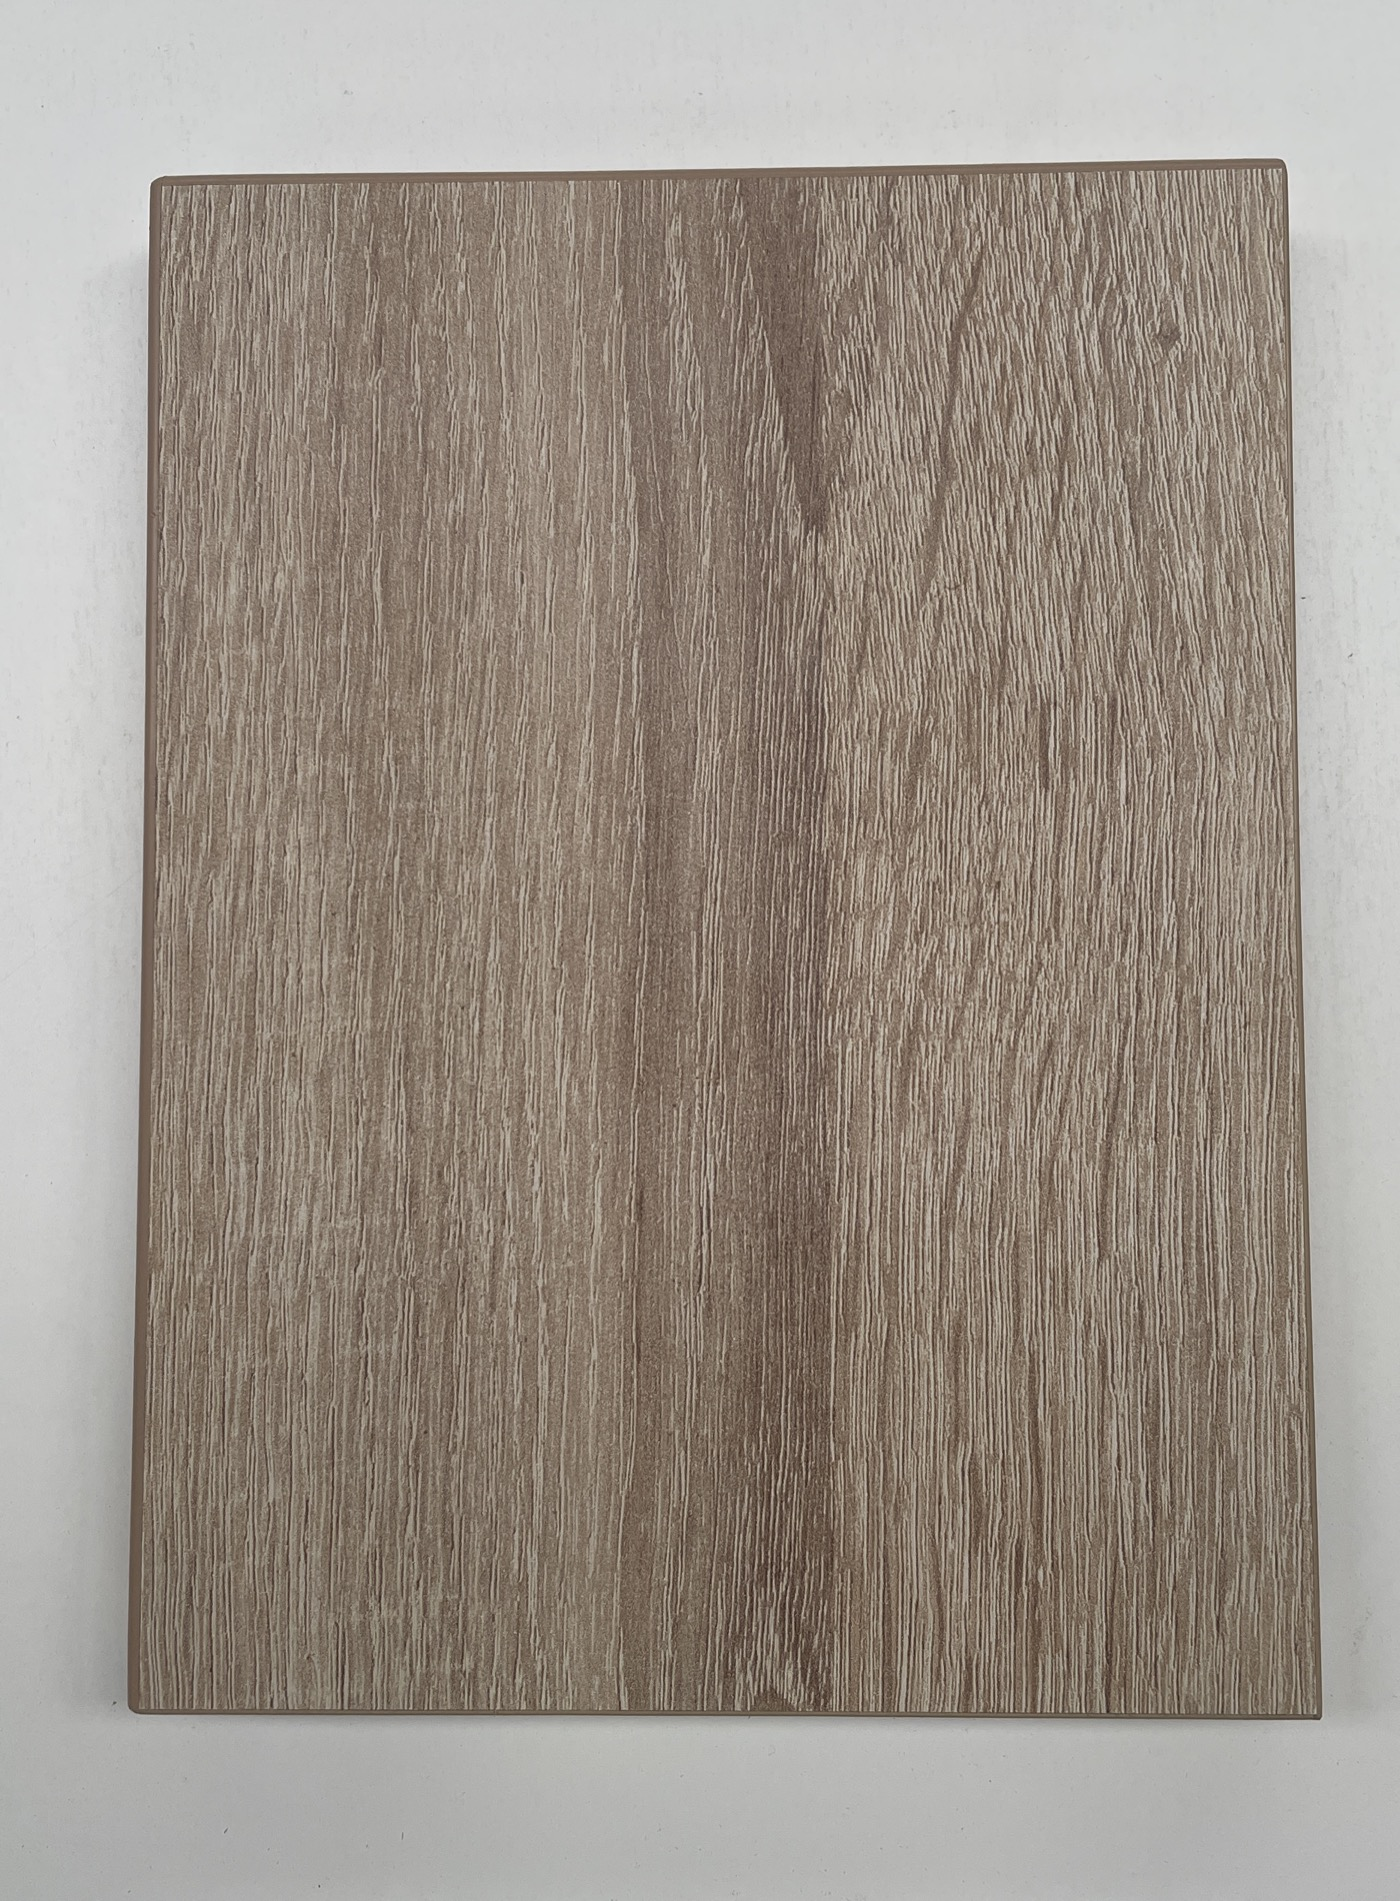
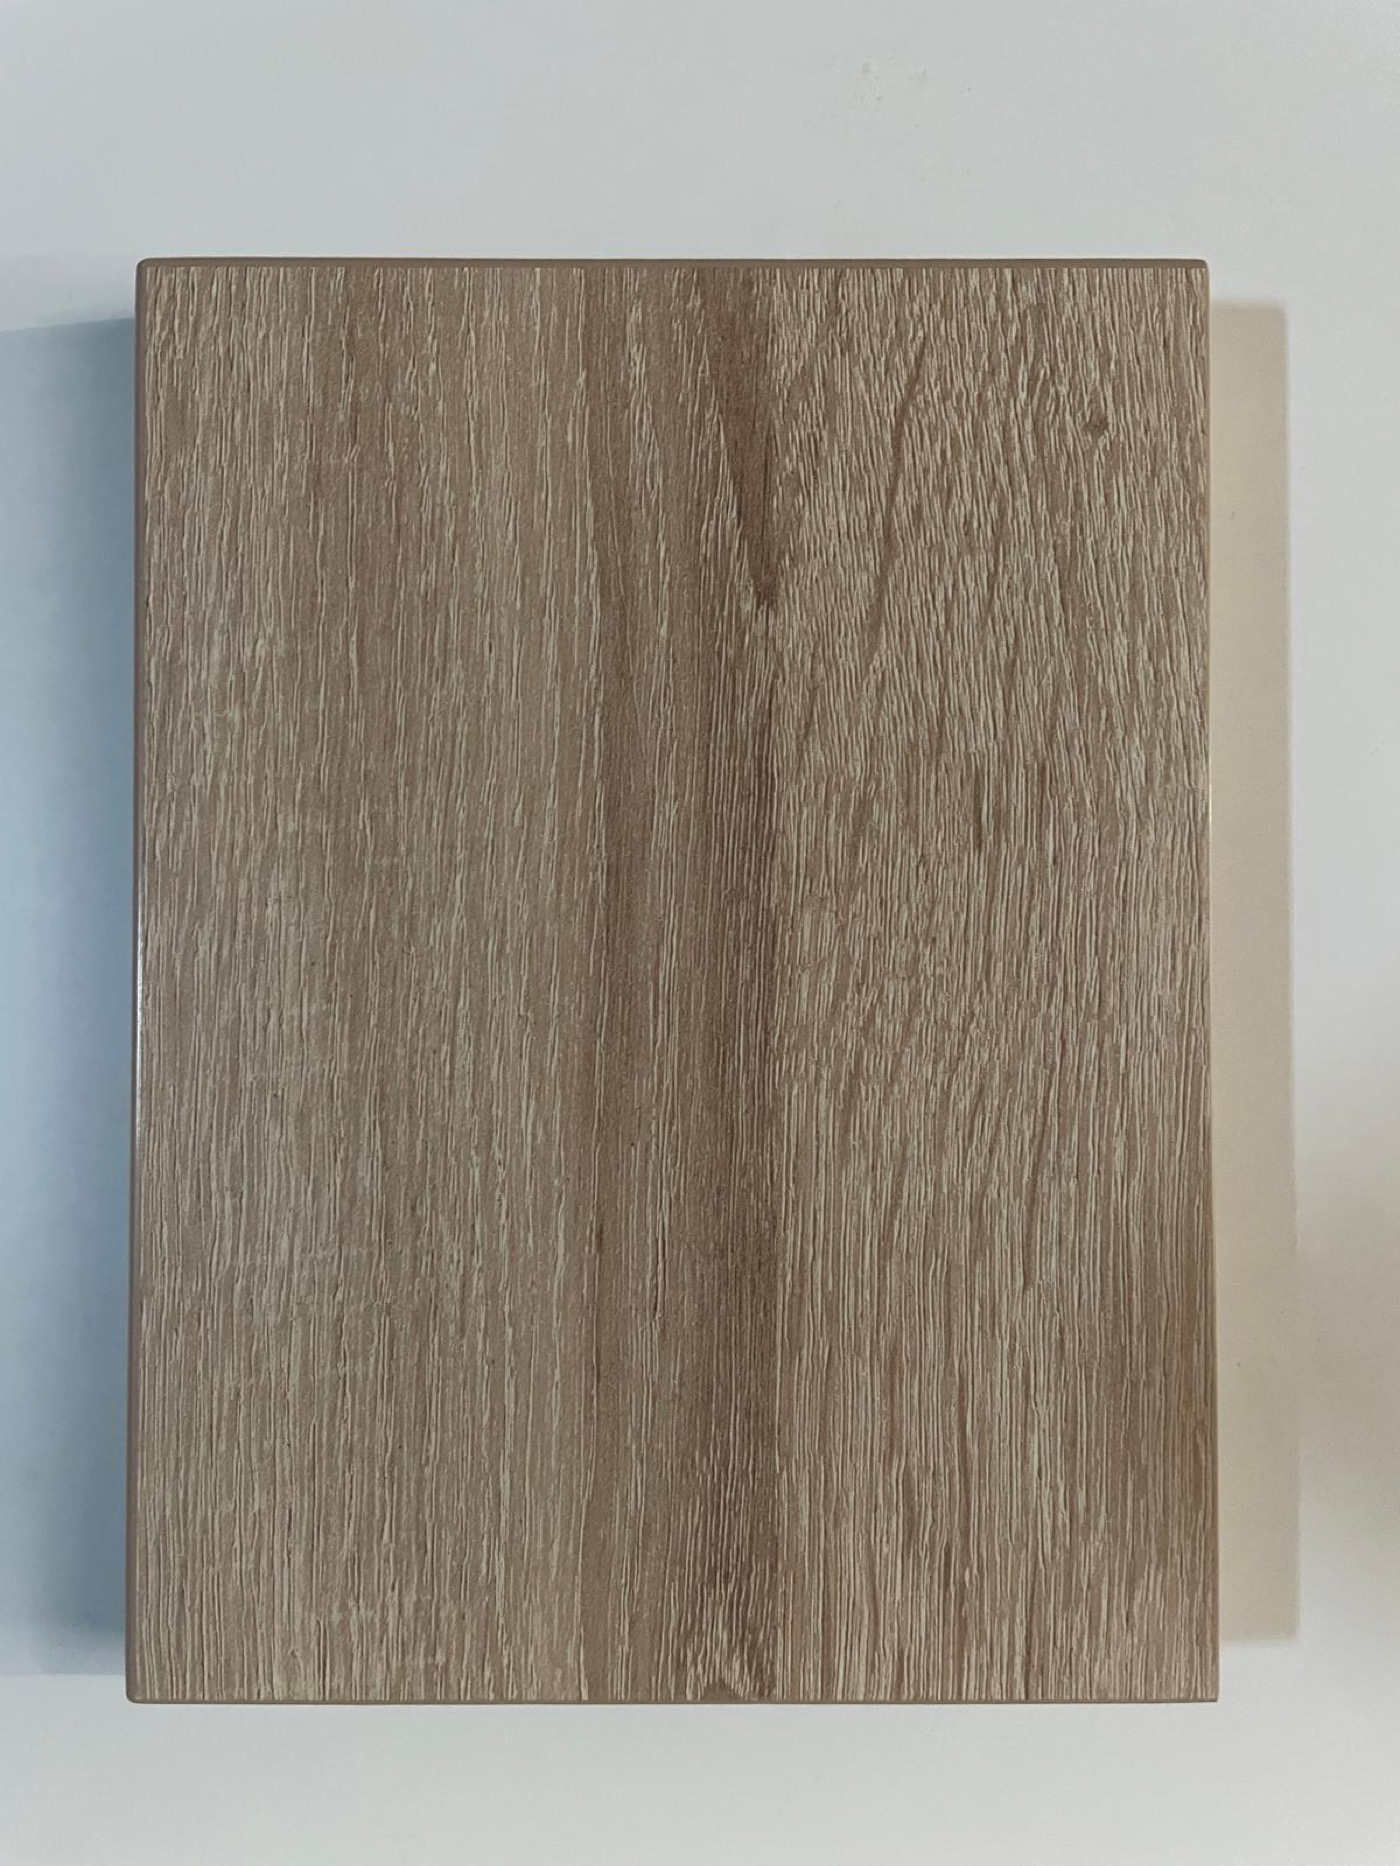
Add 6 new Tailored Collection MFC swatches; update Bordilino Oak image
New: Dijon Walnut, Driftwood, Estate Green, Ivory Woodgrain,
Marone Cassela Walnut, White Woodgrain

diff --git a/johnflavin/nextjs-app/app/(protected)/options/page.tsx b/johnflavin/nextjs-app/app/(protected)/options/page.tsx
@@ -169,7 +169,7 @@ const REFINED_CARDS = [
 ];
 
 const MFC_SWATCHES = [
-  "beige-textile","black","bordilino-oak","cashmere","cashmere-ash","cassella-oak","dakar","dakar-ash","dust-grey","dust-grey-woodgrain","graphite","grey-textile","hamilton-oak","indigo-blue","ivory","lancaster-oak","light-grey","light-grey-woodgrain","magnolia","mussell","mussell-woodgrain","natural-halifax-oak","pippy-oak","reed-green","sand-gladstone-oak","sand-lyon-ash","stone-grey","stone-grey-ash","tobaco-gladstone-oak","tobaco-halifax-oak","white","white-gladstone-oak"
+  "beige-textile","black","bordilino-oak","cashmere","cashmere-ash","cassella-oak","dakar","dakar-ash","dijon-walnut","driftwood","dust-grey","dust-grey-woodgrain","estate-green","graphite","grey-textile","hamilton-oak","indigo-blue","ivory","ivory-woodgrain","lancaster-oak","light-grey","light-grey-woodgrain","magnolia","marone-cassela-walnut","mussell","mussell-woodgrain","natural-halifax-oak","pippy-oak","reed-green","sand-gladstone-oak","sand-lyon-ash","stone-grey","stone-grey-ash","tobaco-gladstone-oak","tobaco-halifax-oak","white","white-gladstone-oak","white-woodgrain"
 ].map(s => ({
   slug: s,
   name: s.replace(/-2$/, " (Textured)").replace(/-a$/, "").replace(/-b$/, " (Dark)").replace(/-/g, " ").replace(/\b\w/g, (c: string) => c.toUpperCase()),
